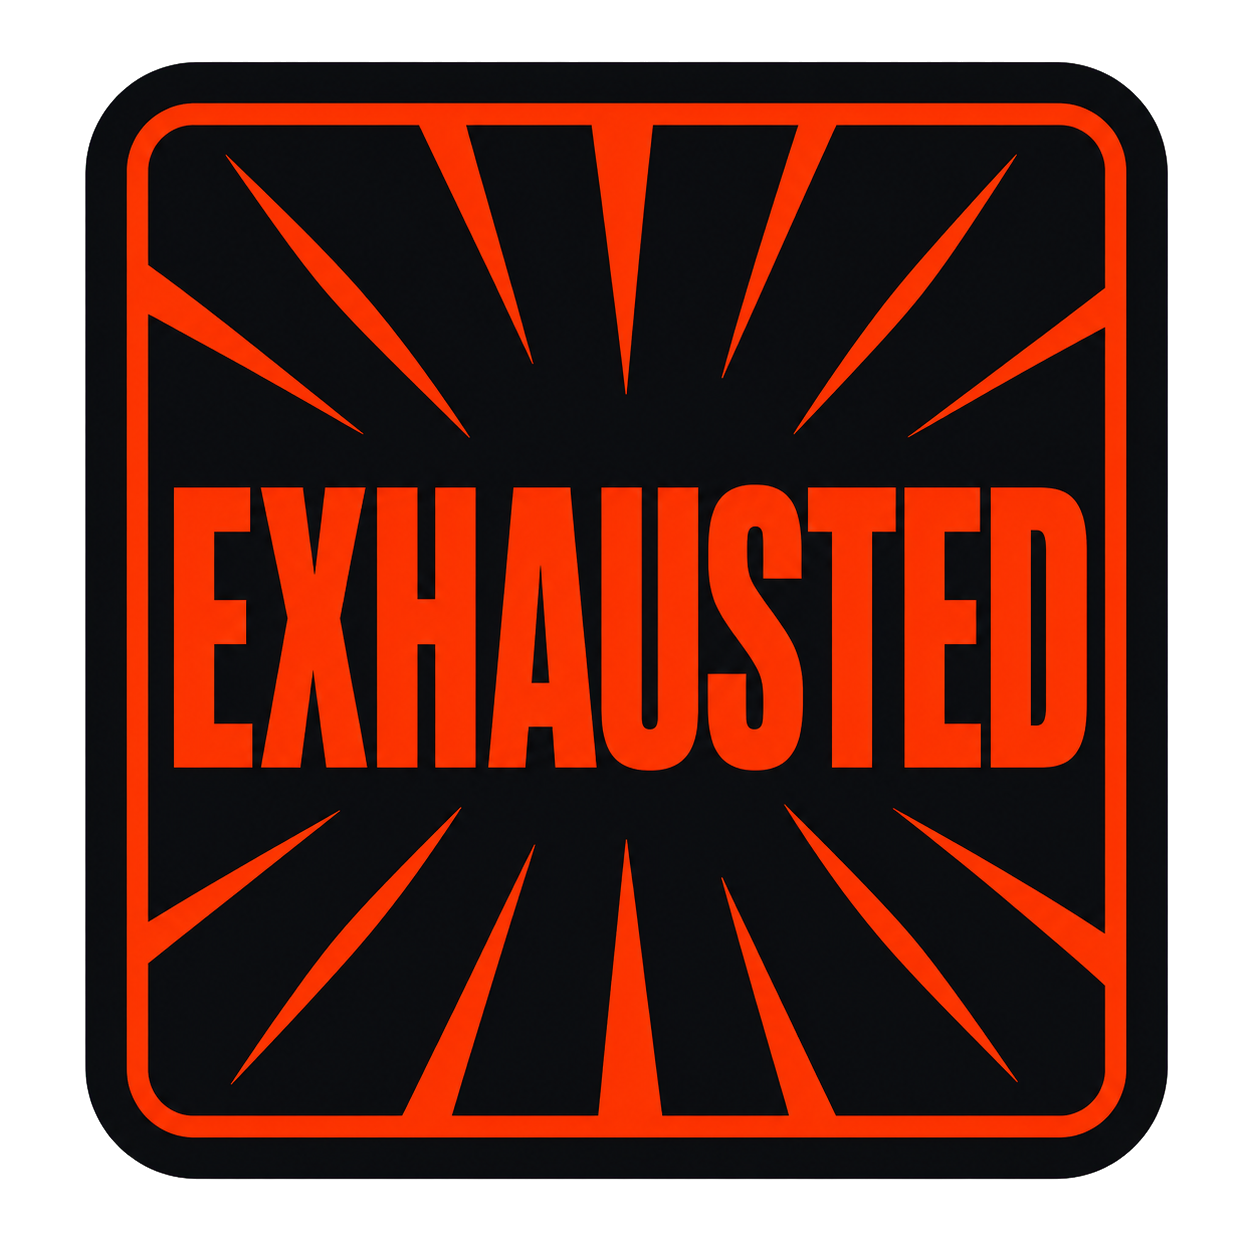
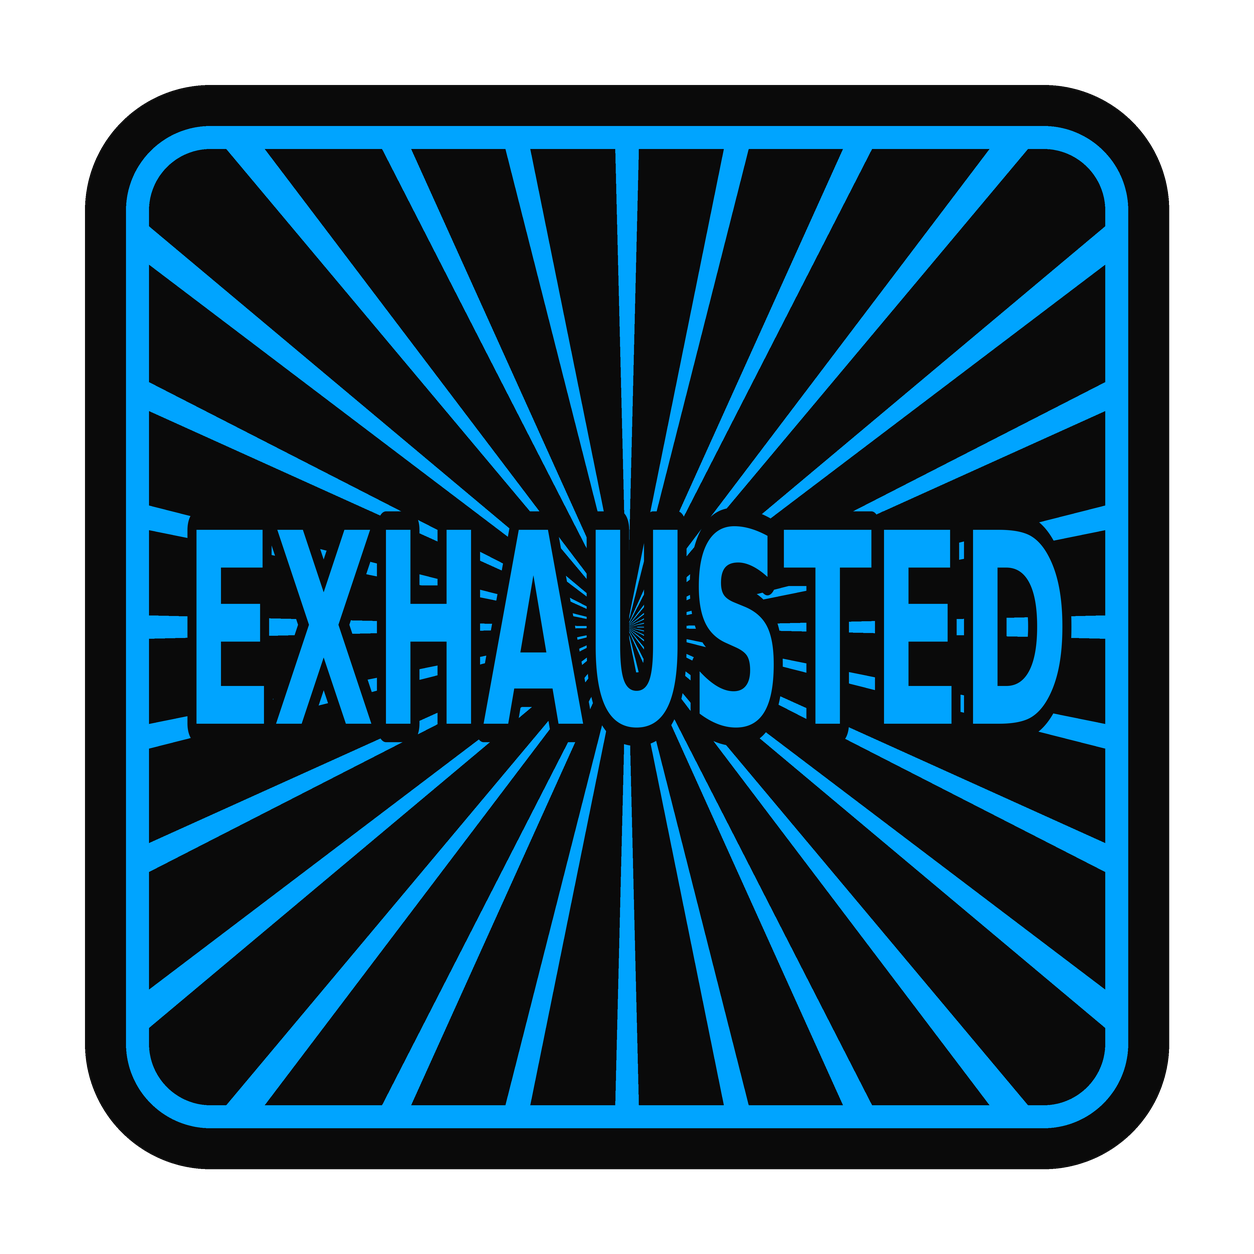
Redraw the condition tokens with the colours swapped
Injury is red and exhaustion is blue; it was the other way round, which
is the pairing this changes. The two PNGs are read twice over -- render.py
draws them as the badges on a player's card, and the same files are
uploaded as the application emoji so a line of text and the board show a
coach the same icon -- so the colour could not be swapped in code.

scripts/render_condition_tokens.py draws them, measured off the art it
replaces so a token stays what coaches recognise at 26px: black face,
thin coloured ring, thicker black edge, sunburst behind a condensed word.
It is a dry run unless told otherwise, like recut_player_portraits.py and
for the same reason -- what it overwrites is tracked art.

Uploading stays manual. Until both files go up under the names in
CONDITION_EMOJI_NAMES, the board draws the new colours and Discord shows
the old ones.

diff --git a/scripts/render_condition_tokens.py b/scripts/render_condition_tokens.py
@@ -1,0 +1,242 @@
+#!/usr/bin/env python3
+"""Draw the Injured and Exhausted condition tokens.
+
+These two PNGs are read in two places and have to be one file each:
+`render.py` loads them as the badges it draws on a player's card
+(`load_injured_icon` / `load_exhausted_icon`), and the same art is
+uploaded to the application's emoji so a line of text and the badge on
+the board show a coach the same icon -- see "Logging and the #logs
+channel" for how application emoji are looked up, and
+`cogs/d12ball_helpers.py` for the names they must be uploaded under.
+
+    python3 scripts/render_condition_tokens.py                 # dry run
+    python3 scripts/render_condition_tokens.py --in-place
+    python3 scripts/render_condition_tokens.py --out /tmp/tokens
+
+It writes nothing unless asked, because what it overwrites is tracked
+art -- the same reason `recut_player_portraits.py` is a dry run by
+default. **Uploading is still a manual step**: the Developer Portal's
+"Emojis" tab, under the names in `CONDITION_EMOJI_NAMES`. Re-running
+this changes what the board draws immediately, and what Discord shows
+not at all until the new files are uploaded, so do both together or the
+two disagree.
+
+The layout is measured off the art this replaces, so a token stays the
+thing coaches already recognise at 26px: a black face inside a thin
+coloured ring inside a thicker black edge, a sunburst behind the word,
+and the word itself condensed to the full width of the face. What
+changed is the colour, which is the whole point of the rewrite --
+**injury is red and exhaustion is blue**, where it used to be the other
+way round.
+"""
+import argparse
+import math
+import sys
+from pathlib import Path
+
+from PIL import Image, ImageChops, ImageDraw, ImageFont
+
+PROJECT_ROOT = Path(__file__).resolve().parents[1]
+sys.path.insert(0, str(PROJECT_ROOT))
+
+EMOJI_DIR = PROJECT_ROOT / "d12ball" / "images" / "emoji"
+FONT_PATH = PROJECT_ROOT / "d12ball" / "fonts" / "DejaVuSans-Bold.ttf"
+
+# The size the art this replaces was drawn at. Discord takes anything
+# and `render.py` resizes to 26px, but a token is also the one image a
+# coach may open full size, so it is drawn once at the larger size
+# rather than at either of the sizes it is shown.
+CANVAS = 1254
+
+# Pillow does not antialias the shapes a token is made of, so it is
+# drawn large and resized down -- the same trick `cards.Pen` uses, and
+# for the same reason.
+SUPERSAMPLE = 4
+
+# Every measurement below is a fraction of the canvas, read off the art
+# this replaces (a scan across the badge gives 85px of margin, 41px of
+# black edge and 23px of coloured ring at 1254). Keeping them
+# proportional is what lets the canvas change without the design moving.
+MARGIN = 85 / 1254
+EDGE_WIDTH = 41 / 1254
+RING_WIDTH = 23 / 1254
+CORNER_RADIUS = 0.10
+
+FACE_COLOR = (10, 10, 10, 255)
+EDGE_COLOR = (10, 10, 10, 255)
+
+# The sunburst behind the word. The rays are wedges from the middle of
+# the badge, so they are drawn long and clipped to the face.
+RAY_COUNT = 28
+RAY_HALF_ANGLE = 1.4  # degrees
+
+# The word is drawn at whatever size fits and then squashed to this box,
+# which is what gives it the condensed face the bundled DejaVu does not
+# have. Both words fill the same box, so INJURED and EXHAUSTED read as
+# one set rather than as two sizes.
+TEXT_WIDTH = 0.72
+TEXT_HEIGHT = 0.19
+
+# The word sits on the sunburst and is the same colour as it, so it
+# carries a face-coloured halo -- without it a letter crossing a ray
+# disappears into it, which is the one thing this art cannot afford at
+# 26px.
+TEXT_HALO = 0.07  # of the font size
+
+# The swap. These were the other way round until 2026-08-15; red for
+# injury and blue for exhaustion is the pairing coaches expect, and the
+# board and the emoji both follow from here.
+TOKENS = {
+    "injured": ("INJURED", (255, 52, 0, 255)),
+    "exhausted": ("EXHAUSTED", (0, 164, 255, 255)),
+}
+
+
+def draw_sunburst(size: int, color: tuple[int, int, int, int]) -> Image.Image:
+    """The rays, on their own layer so the face can clip them."""
+    rays = Image.new("RGBA", (size, size), (0, 0, 0, 0))
+    pen = ImageDraw.Draw(rays)
+    center = size / 2
+    reach = size  # past every corner, so a ray is cut by the face alone
+    for index in range(RAY_COUNT):
+        middle = index * (360 / RAY_COUNT)
+        start = math.radians(middle - RAY_HALF_ANGLE)
+        end = math.radians(middle + RAY_HALF_ANGLE)
+        pen.polygon(
+            [
+                (center, center),
+                (center + reach * math.cos(start), center + reach * math.sin(start)),
+                (center + reach * math.cos(end), center + reach * math.sin(end)),
+            ],
+            fill=color,
+        )
+    return rays
+
+
+def draw_word(
+    word: str, size: int, color: tuple[int, int, int, int]
+) -> Image.Image:
+    """The word, condensed to the text box.
+
+    Drawn at a size that is only ever too big and then resized to the
+    box, so a longer word comes out narrower rather than smaller: it is
+    the squash that has to do the work, or EXHAUSTED would set two
+    thirds the height of INJURED and the pair would not read as a set.
+    """
+    font_size = size // 4
+    halo = int(font_size * TEXT_HALO)
+    font = ImageFont.truetype(str(FONT_PATH), font_size)
+    measure = ImageDraw.Draw(Image.new("RGBA", (1, 1)))
+    left, top, right, bottom = measure.textbbox(
+        (0, 0), word, font=font, stroke_width=halo
+    )
+    layer = Image.new("RGBA", (right - left, bottom - top), (0, 0, 0, 0))
+    ImageDraw.Draw(layer).text(
+        (-left, -top),
+        word,
+        font=font,
+        fill=color,
+        stroke_width=halo,
+        stroke_fill=FACE_COLOR,
+    )
+    return layer.resize(
+        (int(size * TEXT_WIDTH), int(size * TEXT_HEIGHT)), Image.LANCZOS
+    )
+
+
+def render_token(word: str, accent: tuple[int, int, int, int]) -> Image.Image:
+    size = CANVAS * SUPERSAMPLE
+    token = Image.new("RGBA", (size, size), (0, 0, 0, 0))
+    pen = ImageDraw.Draw(token)
+
+    margin = size * MARGIN
+    radius = size * CORNER_RADIUS
+    edge = size * EDGE_WIDTH
+    ring = size * RING_WIDTH
+
+    # Outside in: the black edge is the whole badge filled, the ring is
+    # an outline drawn inside it, and the face is what the ring encloses.
+    pen.rounded_rectangle(
+        (margin, margin, size - margin, size - margin),
+        radius=radius,
+        fill=EDGE_COLOR,
+    )
+    ring_inset = margin + edge
+    pen.rounded_rectangle(
+        (ring_inset, ring_inset, size - ring_inset, size - ring_inset),
+        radius=max(radius - edge, 0),
+        fill=accent,
+    )
+    face_inset = ring_inset + ring
+    pen.rounded_rectangle(
+        (face_inset, face_inset, size - face_inset, size - face_inset),
+        radius=max(radius - edge - ring, 0),
+        fill=FACE_COLOR,
+    )
+
+    # The face is also the sunburst's mask, so a ray stops exactly where
+    # the ring begins rather than needing its own geometry.
+    face_mask = Image.new("L", (size, size), 0)
+    ImageDraw.Draw(face_mask).rounded_rectangle(
+        (face_inset, face_inset, size - face_inset, size - face_inset),
+        radius=max(radius - edge - ring, 0),
+        fill=255,
+    )
+    # Masked into the rays' own alpha rather than pasted through the
+    # mask: a paste copies the layer's transparency as well, which
+    # takes the black face away everywhere a ray is not.
+    rays = draw_sunburst(size, accent)
+    rays.putalpha(ImageChops.multiply(rays.getchannel("A"), face_mask))
+    token.alpha_composite(rays)
+
+    word_layer = draw_word(word, size, accent)
+    token.alpha_composite(
+        word_layer,
+        ((size - word_layer.width) // 2, (size - word_layer.height) // 2),
+    )
+
+    return token.resize((CANVAS, CANVAS), Image.LANCZOS)
+
+
+def main() -> int:
+    parser = argparse.ArgumentParser(description=__doc__)
+    parser.add_argument(
+        "--in-place",
+        action="store_true",
+        help="overwrite the tracked art in d12ball/images/emoji",
+    )
+    parser.add_argument(
+        "--out",
+        type=Path,
+        help="write the tokens to this directory instead",
+    )
+    args = parser.parse_args()
+
+    if args.in_place and args.out:
+        parser.error("--in-place and --out ask for two different things")
+
+    destination = EMOJI_DIR if args.in_place else args.out
+    if destination is not None:
+        destination.mkdir(parents=True, exist_ok=True)
+
+    for name, (word, accent) in TOKENS.items():
+        token = render_token(word, accent)
+        if destination is None:
+            print(f"{name}: {word} {accent[:3]} ({token.width}px) -- not written")
+            continue
+        path = destination / f"{name}.png"
+        token.save(path)
+        print(f"{name}: {word} {accent[:3]} -> {path}")
+
+    if destination is None:
+        print("\nDry run. Pass --in-place to overwrite, or --out to look first.")
+    elif args.in_place:
+        print(
+            "\nWritten. Restart the bot (render.py caches the icons at first "
+            "use) and upload both to the Developer Portal's Emojis tab."
+        )
+    return 0
+
+
+if __name__ == "__main__":
+    raise SystemExit(main())
